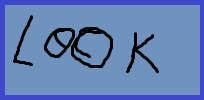
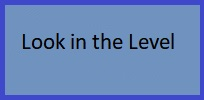
look system

Changed region(s): [[0.0588, 0.15, 0.8529, 0.75]]

diff --git a/TowerDefenseProject/core/src/com/mygdx/game/Look_LVL.java b/TowerDefenseProject/core/src/com/mygdx/game/Look_LVL.java
@@ -1,0 +1,87 @@
+package com.mygdx.game;
+
+import com.badlogic.gdx.graphics.Texture;
+import com.badlogic.gdx.graphics.g2d.BitmapFont;
+import com.badlogic.gdx.graphics.g2d.SpriteBatch;
+
+public class Look_LVL {
+    int numberKey = 5;
+    int numberEnemy =6;
+    int ourNumber;
+    Texture panelInformation;
+    public boolean detectKey;
+    public boolean detectEnemy;
+    public boolean detectNothing;
+    public boolean detectSomething;
+    ButtonClosePanelLook buttonClose;
+    ButtonFightEnemy buttonFight;
+    BitmapFont title;
+
+
+    public Look_LVL()
+    {
+        panelInformation = AssetManager.getInstance().panelLookLvl;
+        buttonClose = new ButtonClosePanelLook(-3,-1.5f,2,1);
+        buttonFight = new ButtonFightEnemy(1,-1.5f,2,1);
+        title = AssetManager.getInstance().titlePanelLookLvl;
+        title.getData().setScale(0.1f,0.1f/2);
+    }
+
+    public void render(SpriteBatch batch)
+    {
+        if(detectKey )
+        {
+            batch.draw(panelInformation,-3.5f,-2,7,5);
+            title.draw(batch,"Key: ",-3.5f,2f);
+            buttonClose.render(batch);
+        }
+        else if(detectNothing)
+        {
+            batch.draw(panelInformation,-3.5f,-2,7,5);
+            title.draw(batch,"Nothing: ",-3.5f,2f);
+            buttonClose.render(batch);
+        }
+        else if(detectEnemy)
+        {
+            batch.draw(panelInformation,-3.5f,-2,7,5);
+            title.draw(batch,"Enemiy: ",-3.5f,2f);
+            buttonClose.render(batch);
+            buttonFight.render(batch);
+        }
+
+    }
+
+    public void CalculateThingToFind()
+    {
+        ourNumber = (int)(Math.random()*numberEnemy+1);
+        System.out.println(ourNumber);
+        if(ourNumber == numberEnemy)
+        {
+            System.out.println("enemigo");
+            detectEnemy=true;
+            detectSomething=true;
+        }
+        else if(ourNumber==numberKey)
+        {
+            detectKey=true;
+            detectSomething=true;
+            System.out.println("llave");
+        }
+        else if(ourNumber!=numberEnemy && ourNumber!=numberKey)
+        {
+            detectNothing=true;
+            detectSomething=true;
+            System.out.println("nada");
+        }
+
+    }
+
+    public void ClosePanelLook()
+    {
+        detectEnemy=false;
+        detectKey=false;
+        detectNothing=false;
+        detectSomething=false;
+    }
+
+}

diff --git a/TowerDefenseProject/core/src/com/mygdx/game/Level.java b/TowerDefenseProject/core/src/com/mygdx/game/Level.java
@@ -20,6 +20,7 @@ public class Level
     ButtonUpLvl upLvlButton;
     ButtonMusic musicButton;
     ArrayList<Button> buttonArrayList;
+    Look_LVL actionLookLvl;
     public boolean changelvl;
     /*
     ArrayList<GameObject> gos;
@@ -41,15 +42,20 @@ public class Level
         cameraHelper = new CameraHelper(camera);
 
         exitButton = new ButtonExitGame(5,2.5f,2,1);
-        lookLvlButton = new ButtonLookLvl(4,-2,2,1);
-        upLvlButton = new ButtonUpLvl(-4,-2,2,1);
-        musicButton = new ButtonMusic(-5,2.5f,2,1);
+        lookLvlButton = new ButtonLookLvl(3,-4,2,1);
+        upLvlButton = new ButtonUpLvl(-5,-4,2,1);
+        musicButton = new ButtonMusic(-6,2.5f,1.5f,1.5f);
+        actionLookLvl = new Look_LVL();
 
         buttonArrayList = new ArrayList<>();
         buttonArrayList.add(exitButton);
         buttonArrayList.add(lookLvlButton);
         buttonArrayList.add(upLvlButton);
         buttonArrayList.add(musicButton);
+        buttonArrayList.add(actionLookLvl.buttonClose);
+        buttonArrayList.add(actionLookLvl.buttonFight);
+
+
 
         /*gos = new ArrayList<GameObject>();
         inactiveGos = new ArrayList<GameObject>();
@@ -309,6 +315,7 @@ public class Level
         lookLvlButton.render(batch);
         upLvlButton.render(batch);
         musicButton.render(batch);
+        actionLookLvl.render(batch);
 
     }
 

diff --git a/TowerDefenseProject/core/src/com/mygdx/game/AssetManager.java b/TowerDefenseProject/core/src/com/mygdx/game/AssetManager.java
@@ -2,6 +2,7 @@ package com.mygdx.game;
 
 import com.badlogic.gdx.Gdx;
 import com.badlogic.gdx.graphics.Texture;
+import com.badlogic.gdx.graphics.g2d.BitmapFont;
 import com.badlogic.gdx.graphics.g2d.TextureAtlas;
 import com.badlogic.gdx.graphics.g2d.TextureRegion;
 import org.w3c.dom.Text;
@@ -28,6 +29,10 @@ public class AssetManager
     public Texture lvlUpButton;
     public Texture buttonMusicON;
     public Texture buttonMusicOFF;
+    public Texture panelLookLvl;
+    public Texture buttonClosePanel;
+    public Texture buttonFightEnemy;
+    public BitmapFont titlePanelLookLvl;
 
     private static AssetManager instance = null;
 
@@ -51,6 +56,11 @@ public class AssetManager
         lvlUpButton = new Texture(Gdx.files.internal("ButtonUpLvl.jpg"));
         buttonMusicON = new Texture(Gdx.files.internal("buttonMusicON.PNG"));
         buttonMusicOFF = new Texture(Gdx.files.internal("buttonMusicOFF.PNG"));
+        panelLookLvl = new Texture(Gdx.files.internal("MenuLvl.PNG"));
+        buttonClosePanel = new Texture(Gdx.files.internal("ButtonClosePanel.jpg"));
+        buttonFightEnemy = new Texture(Gdx.files.internal("ButtonFightEnemy.jpg"));
+        titlePanelLookLvl = new BitmapFont();
+
 
 
     }

diff --git a/TowerDefenseProject/core/src/com/mygdx/game/InputComputer.java b/TowerDefenseProject/core/src/com/mygdx/game/InputComputer.java
@@ -64,7 +64,7 @@ public class InputComputer implements InputProcessor
 
         level.camera.unproject(point);
 
-
+        //play sound button
         for(int i=0;i<level.buttonArrayList.size();i++)
         {
             if(level.buttonArrayList.get(i).CheckBounds(point.x,point.y))
@@ -73,13 +73,25 @@ public class InputComputer implements InputProcessor
             }
         }
 
-
+        //button exit game
         if(level.exitButton.CheckBounds(point.x,point.y))
         {
             level.changelvl=true;
         }
 
+        //close panel look
+        if(level.actionLookLvl.buttonClose.CheckBounds(point.x,point.y) && level.actionLookLvl.detectSomething)
+        {
+            level.actionLookLvl.ClosePanelLook();
+        }
 
+        //open panel look
+        if(level.lookLvlButton.CheckBounds(point.x,point.y) && !level.actionLookLvl.detectSomething)
+        {
+            level.actionLookLvl.CalculateThingToFind();
+        }
+
+        //mute and desmute music
         if(level.musicButton.CheckBounds(point.x, point.y))
         {
             level.musicButton.musicON=!level.musicButton.musicON;

diff --git a/TowerDefenseProject/core/src/com/mygdx/game/ButtonClosePanelLook.java b/TowerDefenseProject/core/src/com/mygdx/game/ButtonClosePanelLook.java
@@ -1,0 +1,22 @@
+package com.mygdx.game;
+
+import com.badlogic.gdx.graphics.g2d.SpriteBatch;
+import com.badlogic.gdx.math.Rectangle;
+
+public class ButtonClosePanelLook extends Button {
+    public ButtonClosePanelLook(float x, float y, float width, float height) {
+        super(x, y, width, height);
+        this.texture = AssetManager.getInstance().buttonClosePanel;
+        this.bounds = new Rectangle(this.x,this.y,this.width,this.height);
+    }
+
+    @Override
+    public void render(SpriteBatch batch) {
+        super.render(batch);
+    }
+
+    @Override
+    public boolean CheckBounds(float x, float y) {
+        return this.bounds.contains(x, y);
+    }
+}

diff --git a/TowerDefenseProject/core/src/com/mygdx/game/ButtonFightEnemy.java b/TowerDefenseProject/core/src/com/mygdx/game/ButtonFightEnemy.java
@@ -1,0 +1,22 @@
+package com.mygdx.game;
+
+import com.badlogic.gdx.graphics.g2d.SpriteBatch;
+import com.badlogic.gdx.math.Rectangle;
+
+public class ButtonFightEnemy extends Button{
+    public ButtonFightEnemy(float x, float y, float width, float height) {
+        super(x, y, width, height);
+        this.texture = AssetManager.getInstance().buttonFightEnemy;
+        this.bounds = new Rectangle(this.x,this.y,this.width,this.height);
+    }
+
+    @Override
+    public void render(SpriteBatch batch) {
+        super.render(batch);
+    }
+
+    @Override
+    public boolean CheckBounds(float x, float y) {
+        return this.bounds.contains(x, y);
+    }
+}
